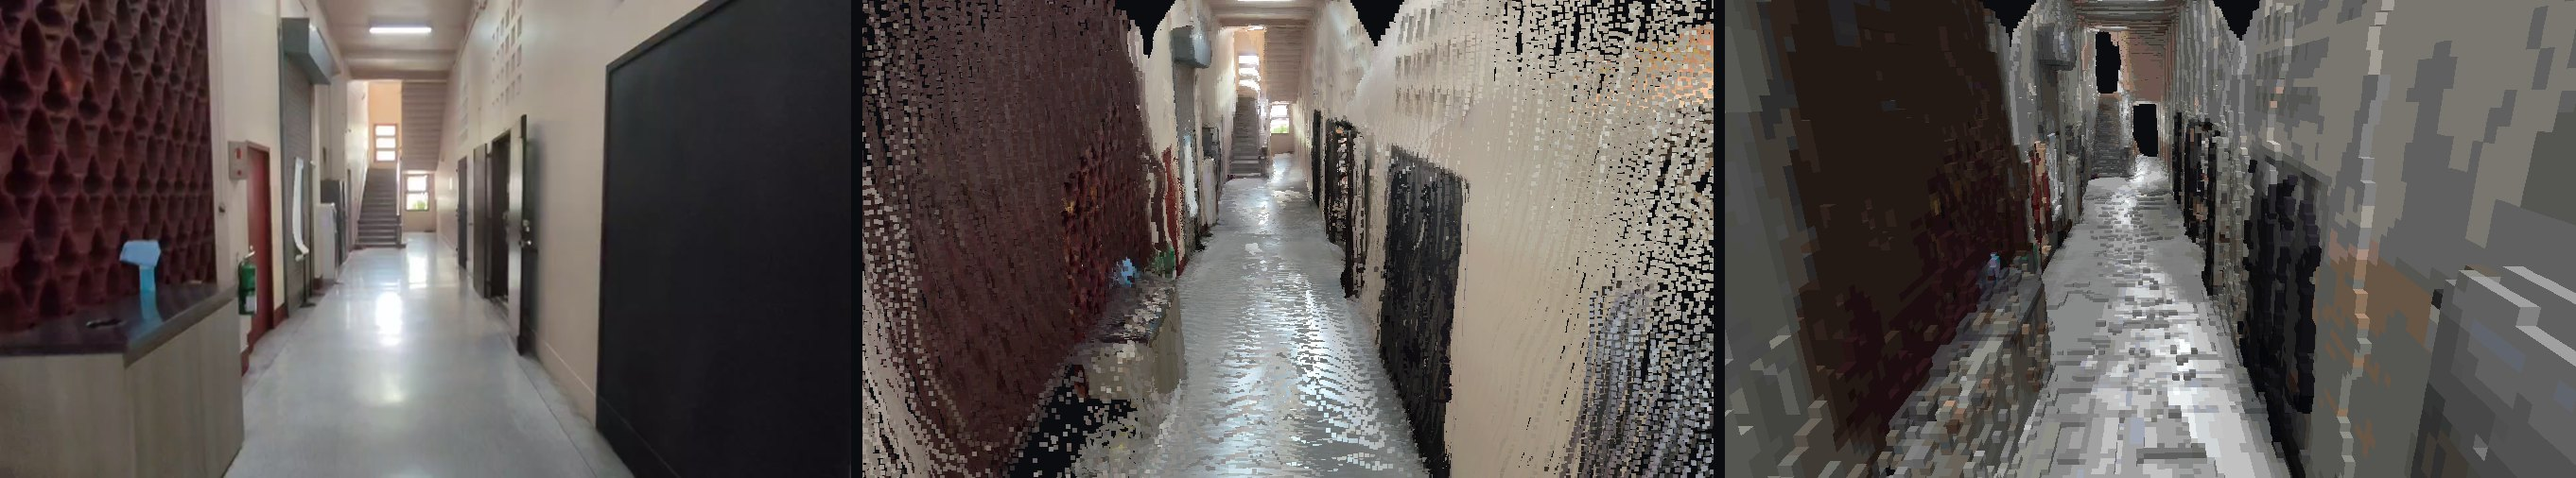
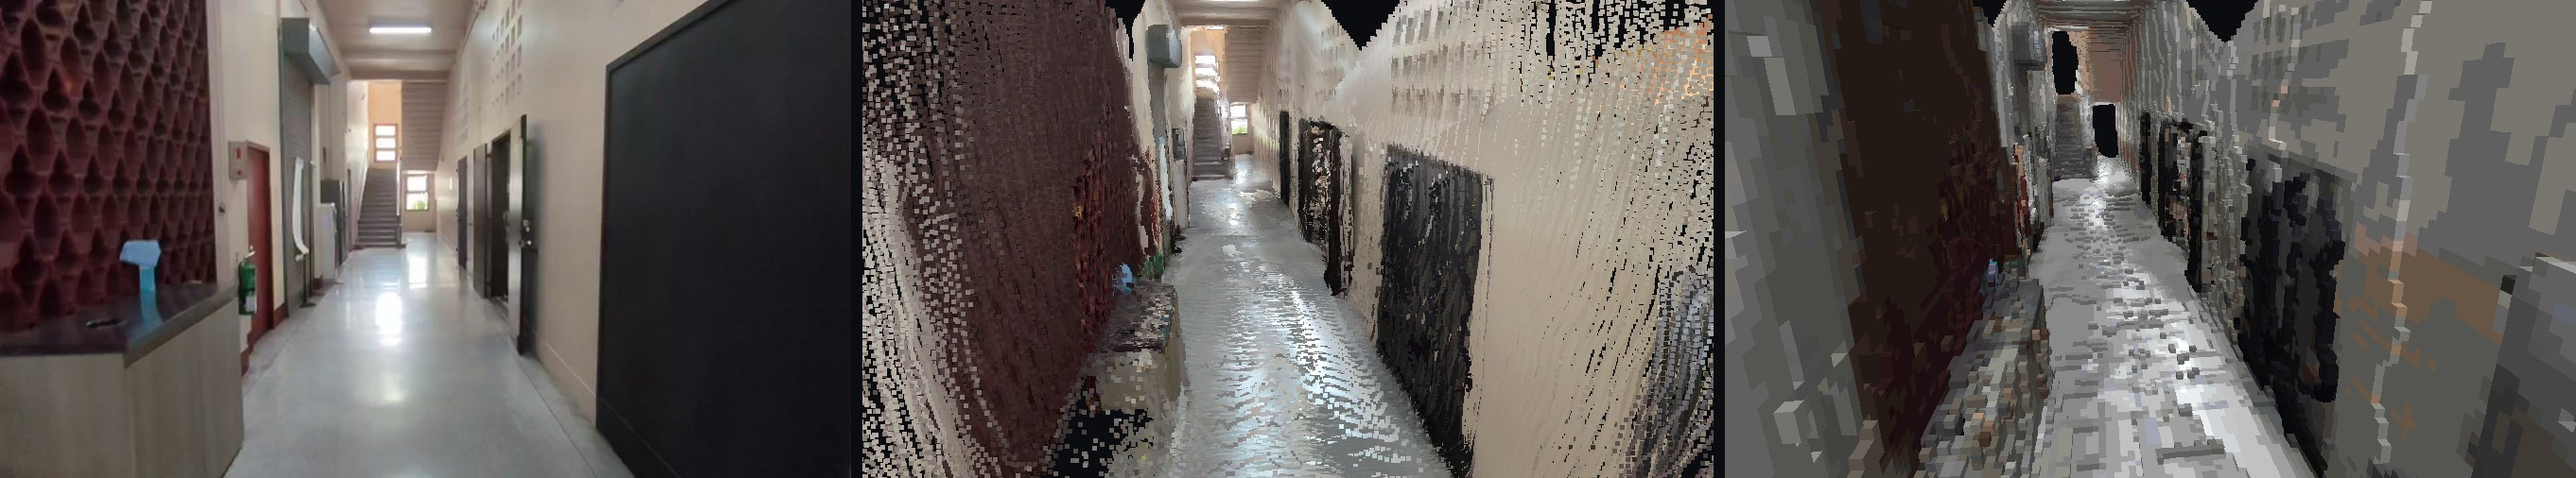
README hero: corridor seen a little from the side (6° swing around the corridor ahead)

Changed region(s): [[0.312, 0.0, 1.0, 1.0]]

diff --git a/tools/readme_media.py b/tools/readme_media.py
@@ -160,7 +160,7 @@ def _scene_cloud(sc: dict, stride: int):
     return np.concatenate(P), np.concatenate(C), np.concatenate(S)
 
 
-def scene(rid: str, out: str, frame: int = 0, deg: float = 0, back: float = 1.5, rise: float = 1.2, tilt: float = 12,
+def scene(rid: str, out: str, frame: int = 0, deg: float = -6, back: float = 1.5, rise: float = 1.2, tilt: float = 12,
           kblocks: int = 300) -> None:
     sc = store.load_scene(rid)
     frame = int(frame)
@@ -170,14 +170,19 @@ def scene(rid: str, out: str, frame: int = 0, deg: float = 0, back: float = 1.5,
     s = WIDTH / w
     Ko = sc["K"][frame].astype(np.float64) * np.array([[s], [s], [1]])
     hw = (round(h * s), WIDTH)
-    # A swing around the middle would put the camera in a wall of a corridor or room, so step back
-    # `back` and up `rise` (metres; scenes are levelled with up = -y), turn `deg` and look down `tilt`.
+    # Step back `back` and up `rise` (metres; scenes are levelled with up = -y) and look down `tilt`,
+    # then swing `deg` around the point straight ahead at the frame's median depth. A big swing puts
+    # the camera in a wall of a corridor or room; a few degrees shows it from the side.
     c2w = sc["c2w"][frame].astype(np.float64).copy()
     up = np.array([0.0, -1.0, 0.0])
     fwd = c2w[:3, 2] - (c2w[:3, 2] @ up) * up
     fwd /= np.linalg.norm(fwd)
+    pivot = c2w[:3, 3] + float(np.median(sc["depth"][frame][sc["mask"][frame]])) * fwd
     c2w[:3, 3] += rise * up - back * fwd
-    c2w[:3, :3] = _axis_angle(up, deg) @ c2w[:3, :3] @ _axis_angle(np.array([1.0, 0, 0]), -tilt)
+    c2w[:3, :3] = c2w[:3, :3] @ _axis_angle(np.array([1.0, 0, 0]), -tilt)
+    R = _axis_angle(up, deg)
+    c2w[:3, :3] = R @ c2w[:3, :3]
+    c2w[:3, 3] = R @ (c2w[:3, 3] - pivot) + pivot
     view = np.linalg.inv(c2w)
     b = store.minecraft_build(rid, "auto", kblocks, frame=frame)
     panels = [Image.fromarray(rgb).resize(hw[::-1], Image.LANCZOS), splat(P, C, size, Ko, view, hw), blocks(b, Ko, view, hw)]

diff --git a/README.md b/README.md
@@ -9,8 +9,8 @@ what that one camera saw.
 
 ![A frame of a hallway video, the scene's point cloud from a step back and above, and its Minecraft build from the same spot](docs/hero-corridor.jpg)
 
-*Left: a frame of a walk-through video. Middle: the whole scene's point cloud, seen from a step back
-and above. Right: its Minecraft build, from the same spot.*
+*Left: a frame of a walk-through video. Middle: the whole scene's point cloud, seen from a step back,
+a little above and to the side. Right: its Minecraft build, from the same spot.*
 
 > A personal prototype, developed and tested on Windows with an RTX 3080 Laptop GPU (16 GB). Expect
 > rough edges.
